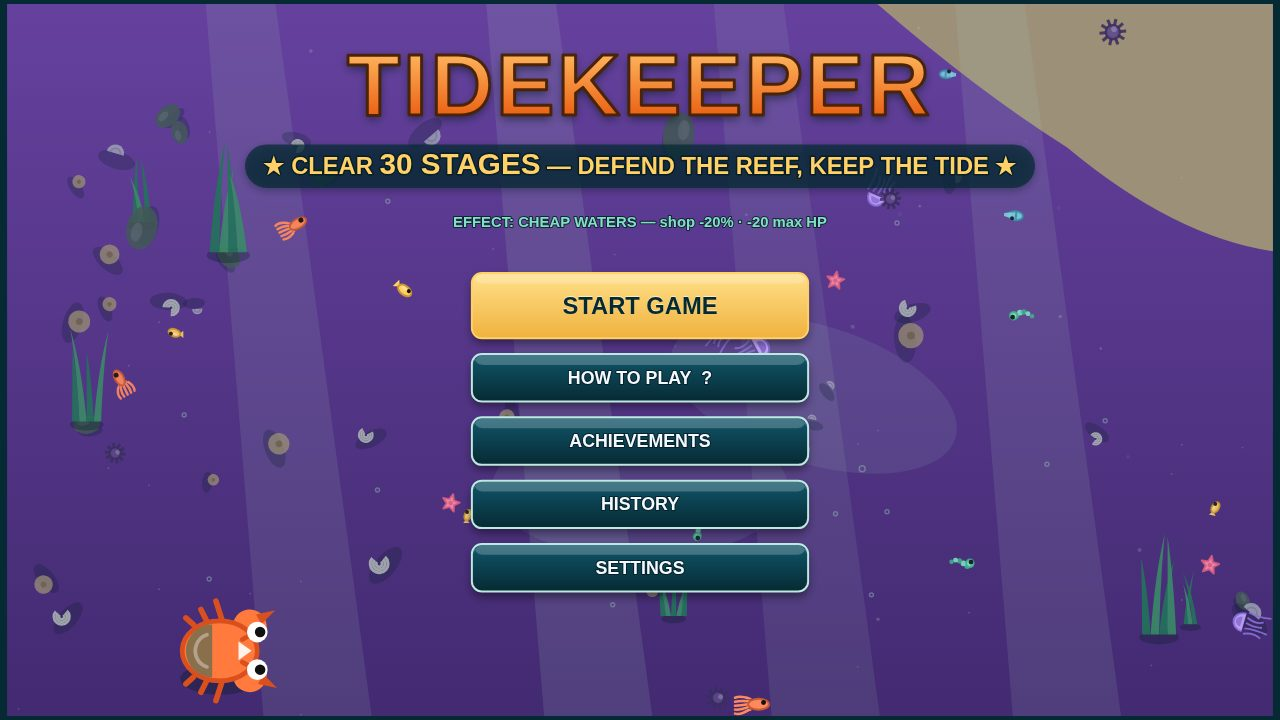
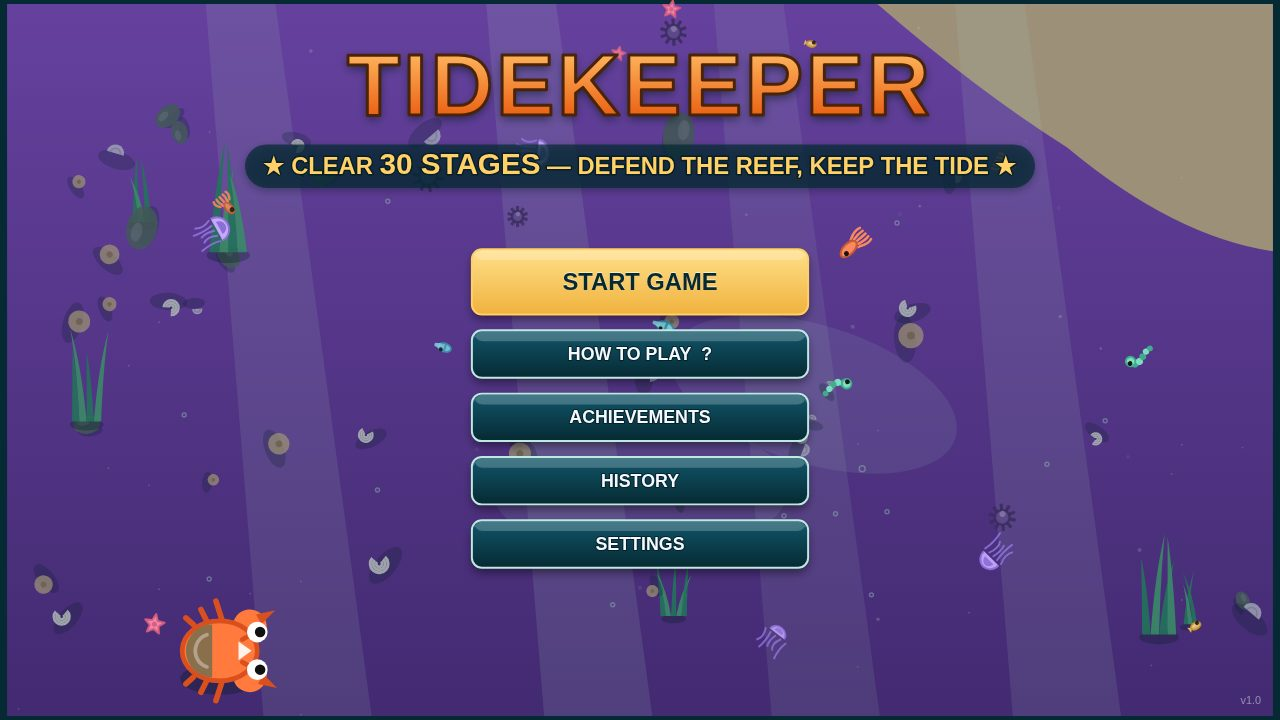
TIDEKEEPER v31: remove effect line from title screen, add v1.0 version label (dossier 163,524 B)

diff --git a/game/src/render/title.js b/game/src/render/title.js
@@ -69,10 +69,6 @@ export function drawTitle(ctx, state) {
     ctx.font = 'bold 17px sans-serif';
     txt(ctx, `✦ ${title.toUpperCase()} ✦`, VIEW_W / 2, 202, PAL.gold);
   }
-  if (state.modifier) {
-    ctx.font = 'bold 15px sans-serif';
-    txt(ctx, `EFFECT: ${state.modifier.n} — ${state.modifier.d}`, VIEW_W / 2, 226, PAL.xp);
-  }
   const TL = titleLayout();
   const items = [['start', 'START GAME'], ['help', 'HOW TO PLAY  ?'], ['feats', 'ACHIEVEMENTS'],
     ['history', 'HISTORY'], ['settings', 'SETTINGS']];
@@ -98,6 +94,10 @@ export function drawTitle(ctx, state) {
       txt(ctx, label, b.x + b.w / 2, ty, PAL.text);
     }
   }
+  ctx.textAlign = 'right';
+  ctx.font = '11px sans-serif';
+  ctx.fillStyle = 'rgba(255,255,255,0.45)';
+  ctx.fillText('v1.0', VIEW_W - 12, 708);
 }
 
 export function drawDifficulty(ctx, state) {

diff --git a/game/src/render/layout.js b/game/src/render/layout.js
@@ -29,11 +29,11 @@ export const MENU_ITEMS = ['start', 'help', 'feats', 'history', 'settings'];
 export function titleLayout() {
   const x = VIEW_W / 2 - MENU_BTN_W / 2;
   return {
-    start: { x, y: 272, w: MENU_BTN_W, h: 66 },
-    help: { x, y: 354, w: MENU_BTN_W, h: MENU_BTN_H },
-    feats: { x, y: 418, w: MENU_BTN_W, h: MENU_BTN_H },
-    history: { x, y: 482, w: MENU_BTN_W, h: MENU_BTN_H },
-    settings: { x, y: 546, w: MENU_BTN_W, h: MENU_BTN_H },
+    start: { x, y: 248, w: MENU_BTN_W, h: 66 },
+    help: { x, y: 330, w: MENU_BTN_W, h: MENU_BTN_H },
+    feats: { x, y: 394, w: MENU_BTN_W, h: MENU_BTN_H },
+    history: { x, y: 458, w: MENU_BTN_W, h: MENU_BTN_H },
+    settings: { x, y: 522, w: MENU_BTN_W, h: MENU_BTN_H },
   };
 }
 
